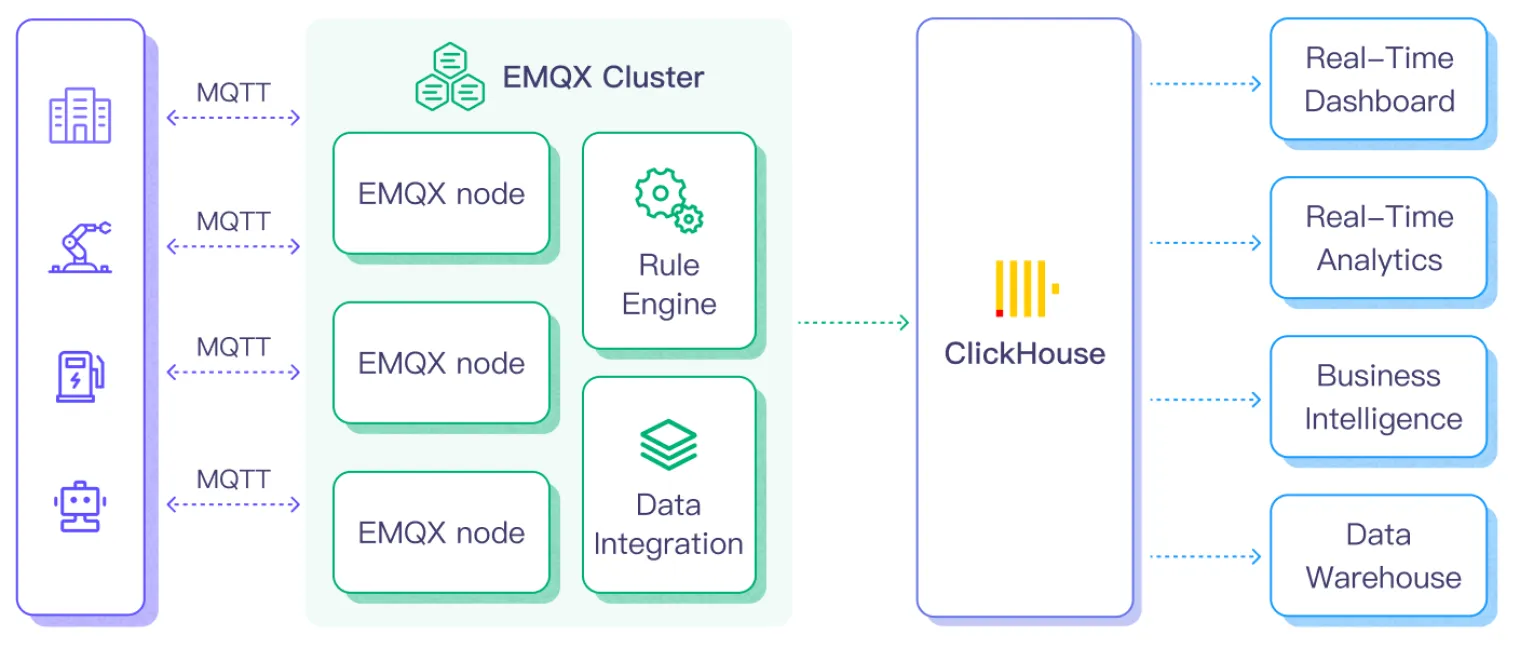
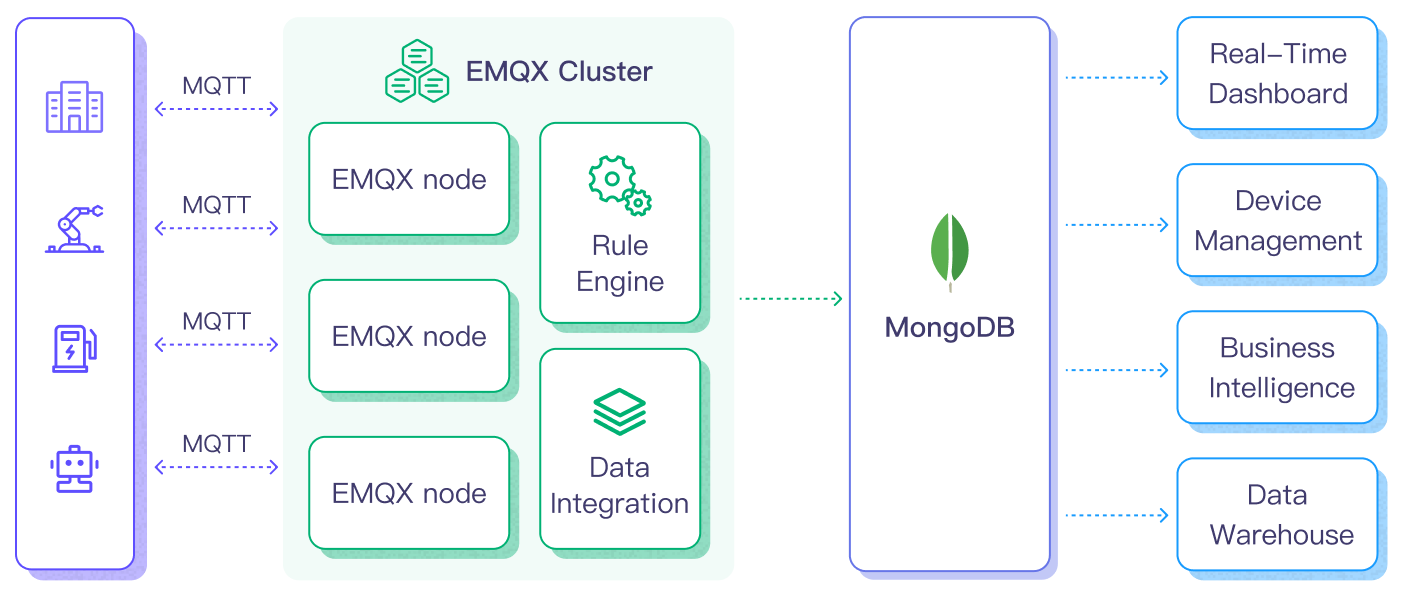
Editorial updates

diff --git a/en_US/data-integration/data-bridge-mongodb.md b/en_US/data-integration/data-bridge-mongodb.md
@@ -12,7 +12,7 @@ MongoDB, a leading NoSQL database, is renowned for its flexibility in schema des
 
 MongoDB data integration is an out-of-the-box feature in EMQX designed to bridge the gap between MQTT-based IoT data and MongoDB's powerful data storage capabilities. With a built-in [rule engine](https://docs.emqx.com/en/enterprise/v5.1/data-integration/rules.html) component, the integration simplifies the process of ingesting data from EMQX to MongoDB for storage and management, eliminating the need for complex coding.
 
-The diagram below illustrates a typical architecture of data integration between EMQX and MongDB. <!-- This image needs to be modified to represent MongoDB -->
+The diagram below illustrates a typical architecture of data integration between EMQX and MongoDB. 
 
 <img src="./assets/mongdb_bridge_architecture.png" alt="mongdb_bridge_architecture" style="zoom:67%;" />
 
@@ -29,6 +29,8 @@ By using this integrated system, businesses in sectors like power and energy can
 ## Features and Benefits
 
 The data integration with MongoDB offers a range of features and benefits tailored to ensure effective data handling and storage:
+
+{% emqxee %}
 
 - **Streamlined IoT Data Management**
 
@@ -66,7 +68,45 @@ The data integration with MongoDB offers a range of features and benefits tailor
 
   The bridge is compatible with and supports the latest versions of MongoDB, ensuring users benefit from the newest features, optimizations, and security updates offered by the database platform.
 
+{% endemqxee %}
+
 {% emqxce %}
+
+- **Streamlined IoT Data Management**
+
+  You can ingest, store, process, and analyze your IoT data all in one place, eliminating the need for complicated integrations and tedious data migrations. Say goodbye to data silos and hello to a unified view of your IoT data.
+  
+- **Real-time Data Processing**
+
+  EMQX is built for handling real-time data streams, ensuring efficient and reliable data transmission from source systems to MongoDB. It enables organizations to capture and analyze data in real-time, making it ideal for use cases requiring immediate insights and actions.
+
+- **Flexible MongoDB Connection Options**
+
+  Whether you operate with a single MongoDB instance or leverage the robustness of a replica set, the bridge offers native support to connect with both configurations, providing businesses with the flexibility to adapt as per their infrastructure needs.
+
+- **High Performance and Scalability**
+
+  EMQX's distributed architecture and MongoDB's columnar storage format enable seamless scalability as data volumes increase. This ensures consistent performance and responsiveness, even with large datasets. As your IoT deployments grow, your data storage capabilities can scale with ease.
+
+- **Flexible Data Transformation**
+
+  EMQX provides a powerful SQL-based Rule Engine, allowing organizations to pre-process data before storing it in MongoDB. It supports various data transformation mechanisms, such as filtering, routing, aggregation, and enrichment, enabling organizations to shape the data according to their needs.
+
+- **NoSQL**
+
+  MongoDB's schema-less architecture ensures that diverse MQTT message structures can be easily stored without the need for rigid schemas, accommodating the dynamic nature of IoT data.
+
+- **Reliable Data Storage**
+
+  Once the EMQX rule engine processes and routes the message, it is stored in MongoDB with the platform's proven reliability, ensuring data integrity and consistent availability.
+
+- **Operational Metrics and Advanced Analytics**
+
+  Glean insights from metrics such as the total message count, egress traffic rate, and more. These metrics, combined with MongoDB's powerful querying, can be utilized to monitor, analyze, and optimize the data flow, empowering users to gain valuable insights from IoT data, enabling predictive analytics, anomaly detection, and more.
+
+- **Latest MongoDB Version Support**
+
+  The bridge is compatible with and supports the latest versions of MongoDB, ensuring users benefit from the newest features, optimizations, and security updates offered by the database platform.
 
 - **Cost-Effective**
 

diff --git a/en_US/data-integration/data-bridge-kafka.md b/en_US/data-integration/data-bridge-kafka.md
@@ -6,7 +6,7 @@ The Kafka data integration is an EMQX Enterprise Edition feature. EMQX Enterpris
 :::
 {% endemqxce %}
 
-[Apache Kafka](https://kafka.apache.org/) is a widely used open-source distributed event streaming platform that can handle the real-time transfer of data streams between applications and systems. In the IoT realm, data generated from devices and applications are transmitted using the lightweight MQTT protocol. EMQX’s integration with Kafka/[Confluent](https://www.confluent.io/) enables users to stream MQTT data seamlessly into or from Kafka. MQTT data streams are ingested into Kafka topics, ensuring real-time processing, storage, and analytics. Conversely, Kafka topics data can be consumed by MQTT devices, enabling timely actions. 
+[Apache Kafka](https://kafka.apache.org/) is a widely used open-source distributed event streaming platform that can handle the real-time transfer of data streams between applications and systems. However, Kafka is not built for edge IoT communication and Kafka clients require a stable network connection and more hardware resources. In the IoT realm, data generated from devices and applications are transmitted using the lightweight MQTT protocol. EMQX’s integration with Kafka/[Confluent](https://www.confluent.io/) enables users to stream MQTT data seamlessly into or from Kafka. MQTT data streams are ingested into Kafka topics, ensuring real-time processing, storage, and analytics. Conversely, Kafka topics data can be consumed by MQTT devices, enabling timely actions. 
 
 <img src="./assets/kafka_bridge.jpg" alt="kafka_bridge" style="zoom:67%;" />
 
@@ -57,7 +57,9 @@ The data integration with Apache Kafka brings the following features and benefit
 - **Payload transformation**: Message payload can be processed by the defined SQL rules during the transmission. For example, payloads containing some real-time metrics such as total message count, successful/failed delivery count, and message rate can go through data extraction, filtering, enrichment, and transformation before the messages are ingested into Kafka.
 - **Effective topic mapping:** Numerous IoT business topics can be mapped into Kakfa topics by the configured kafka data bridge. EMQX supports the MQTT user property mapping to Kafka headers and adopts various flexible topic mapping methods, including one-to-one, one-to-many, many-to-many, and also includes support for MQTT topic filters (wildcards).
 - **Flexible partition selection strategy**: Supports forwarding messages to the same Kafka partition based on MQTT topics or clients.
-- **Processing capabilities in high-throughput situations:** EMQX Kafka producer supports synchronous/asynchronous writing modes, enabling flexible balancing between latency and throughput according to different scenarios.
+- **Processing capabilities in high-throughput situations**: EMQX Kafka producer supports both synchronous and asynchronous writing modes, allowing you to differentiate between real-time priority and performance priority for data writing strategies and enabling flexible balancing between latency and throughput according to different scenarios.
+- **Runtime metrics**: Supports viewing runtime metrics for each data bridge, such as total messages, success/failure counts, current rate, etc.
+- **Dynamic configuration**: You can dynamically configure data bridges in the Dashboard or configuration file.
 
 These features enhance the integration capabilities and flexibility that help you establish an effective and robust IoT platform architecture. Your increasing volumes of IoT data can be transmitted under stable network connections and can be further stored and managed effectively. 
 
